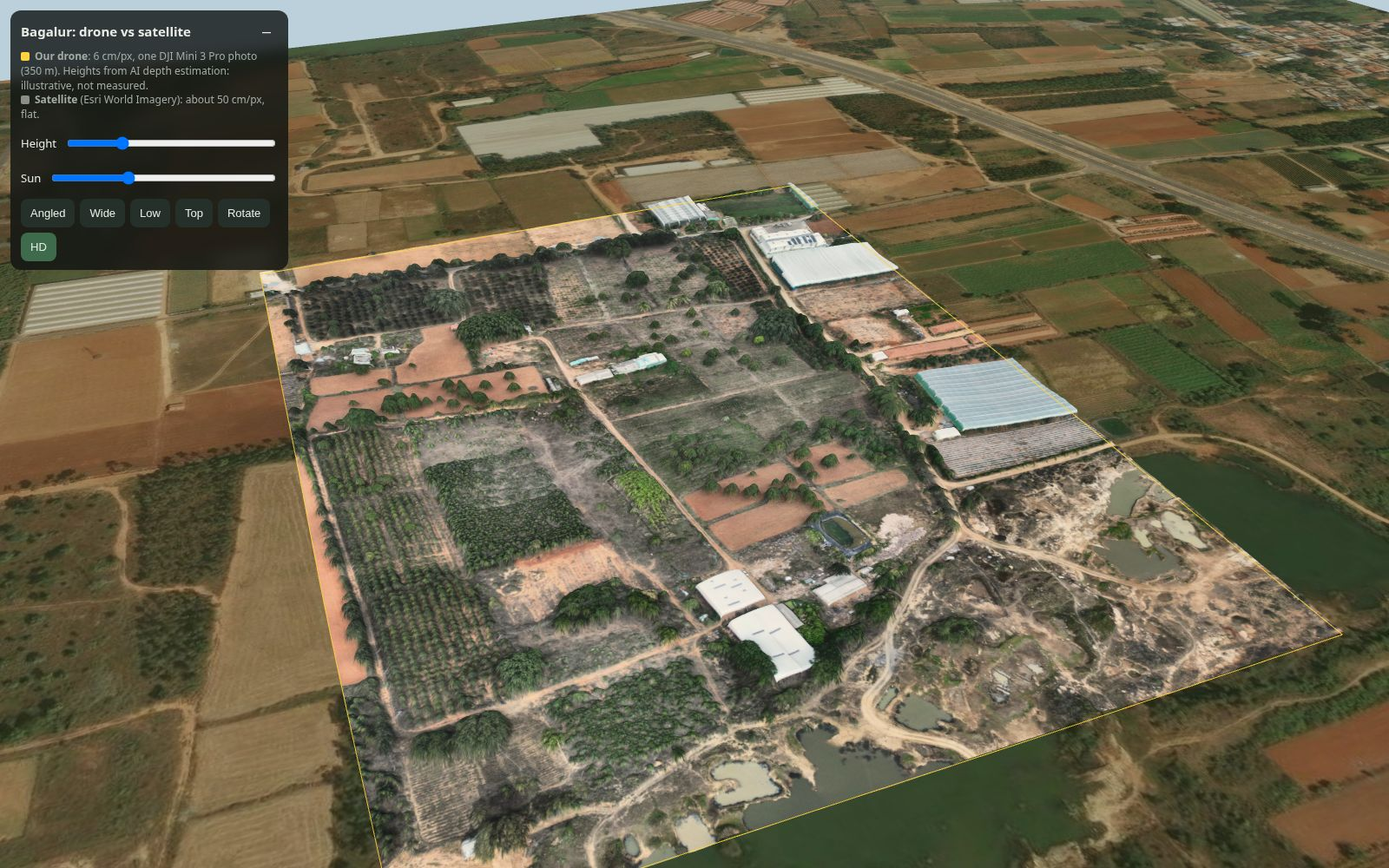
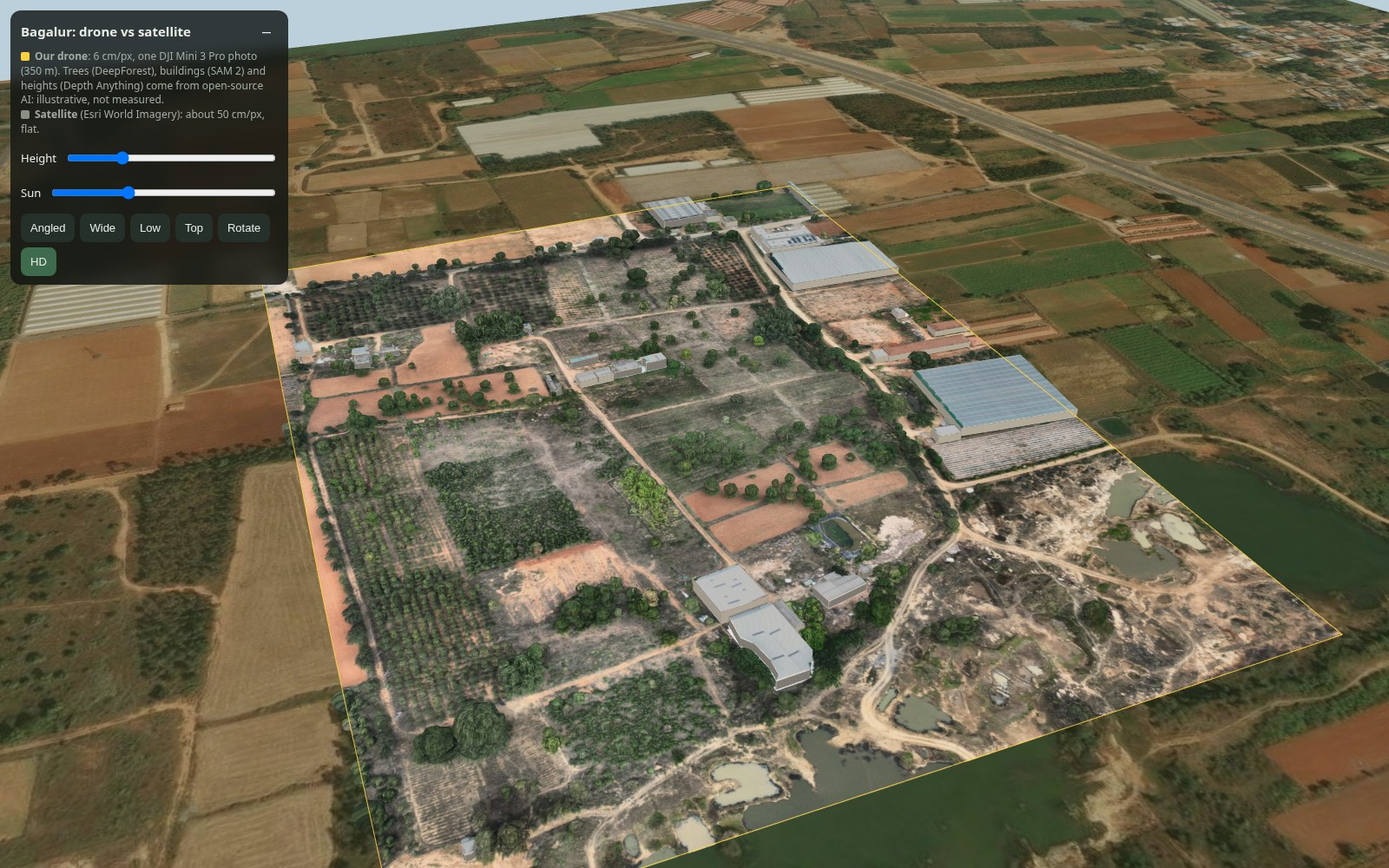
3D viewer: real 3D trees (DeepForest) and extruded buildings (SAM 2.1)
Trees are detected per crown and built as rounded crowns on trunks, textured
from the photo. Buildings are SAM 2.1 roof outlines extruded with plain walls.
The height map now carries only gentle ground relief.

Changed region(s): [[0.0, 0.062, 0.9688, 1.0]]

diff --git a/test-data/bagalur/ai3d/web/index.html b/test-data/bagalur/ai3d/web/index.html
@@ -34,7 +34,7 @@
 <div id="ui">
   <header><h1>Bagalur: drone vs satellite</h1><button id="toggle" aria-label="Hide panel">–</button></header>
   <div class="body">
-    <p><span class="sw drone"></span><b>Our drone</b>: 6 cm/px, one DJI Mini 3 Pro photo (350 m). Heights from AI depth estimation: illustrative, not measured.<br><span class="sw sat"></span><b>Satellite</b> (Esri World Imagery): about 50 cm/px, flat.</p>
+    <p><span class="sw drone"></span><b>Our drone</b>: 6 cm/px, one DJI Mini 3 Pro photo (350 m). Trees (DeepForest), buildings (SAM 2) and heights (Depth Anything) come from open-source AI: illustrative, not measured.<br><span class="sw sat"></span><b>Satellite</b> (Esri World Imagery): about 50 cm/px, flat.</p>
     <label>Height <input id="ex" type="range" min="0" max="40" step="0.5" value="10"></label>
     <label>Sun <input id="sun" type="range" min="0" max="360" step="1" value="120"></label>
     <div id="views">
@@ -83,7 +83,10 @@ let mesh, geo, hts, ex = 10, sat, outline;
 const AL = await (await fetch("align.json")).json();
 const [SW, SH] = AL.sat_size, SPX = AL.sat_px_m, [DW, DH] = AL.drone_size, A = AL.A;
 // drone pixel (u,v) -> world metres (x east, z south), origin = centre of the satellite block
-const SEAM = await (await fetch("seam.json")).json();   // correction grid (satellite px) so roads meet the satellite cleanly
+const SEAM = await (await fetch("seam.json")).json();
+const DPX = Math.hypot(A[0][0], A[1][0]) * SPX;   // metres per drone px
+const TREES = (await (await fetch("trees.json")).json()).trees;       // [cx, cy, rx, ry] in drone px + relative height (DeepForest + canopy peaks)
+const BLD = (await (await fetch("buildings.json")).json()).buildings;   // roof outlines in drone px (SAM 2.1), h = relative height   // correction grid (satellite px) so roads meet the satellite cleanly
 function seamAt(u, v) {   // bilinear sample of the grid at drone pixel (u, v)
   const fx = Math.min(Math.max(u / DW, 0), 1) * (SEAM.gx - 1), fy = Math.min(Math.max(v / DH, 0), 1) * (SEAM.gy - 1);
   const x0 = Math.min(Math.floor(fx), SEAM.gx - 2), y0 = Math.min(Math.floor(fy), SEAM.gy - 2), tx = fx - x0, ty = fy - y0, d = SEAM.d;
@@ -115,7 +118,7 @@ async function build() {
   const cx = c.getContext("2d", { willReadFrequently: true }); cx.drawImage(hImg, 0, 0);
   const px = cx.getImageData(0, 0, c.width, c.height).data;
   const n = c.width * c.height; hts = new Float32Array(n);
-  for (let i = 0; i < n; i++) hts[i] = (px[i * 4] * 256 + px[i * 4 + 1]) / 65535;
+  for (let i = 0; i < n; i++) hts[i] = (px[i * 4] * 256 + px[i * 4 + 1]) / 65535 * 1.3;   // relief2.py packs h / 1.3
   if (mesh) { scene.remove(mesh); mesh.geometry.dispose(); mesh.material.map.dispose(); mesh.material.dispose(); }
   geo = new THREE.PlaneGeometry(1, 1, c.width - 1, c.height - 1);
   const gp = geo.attributes.position, gx = c.width - 1, gy = c.height - 1;
@@ -125,6 +128,7 @@ async function build() {
   mesh = new THREE.Mesh(geo, new THREE.MeshStandardMaterial({ map: tex, roughness: 0.95, metalness: 0 }));
   mesh.castShadow = mesh.receiveShadow = true;
   scene.add(mesh);
+  hw = c.width; hh = c.height; addBuildings(tex); addTrees(tex);
   applyHeights();
   if (!outline) addOutline();
   const sm = hd ? 4096 : 2048;
@@ -136,7 +140,86 @@ function addOutline() {   // 1 px yellow line around the mapped area, sharp at a
   outline = new THREE.LineLoop(g, new THREE.LineBasicMaterial({ color: 0xffd23f, fog: false, depthTest: false, transparent: true, opacity: 0.9 }));
   outline.renderOrder = 10; scene.add(outline);
 }
+// Buildings: the terrain is flat under them; each one is an extruded box with the photo on the roof and plain walls
+let hw = 0, hh = 0, bld = null;
+function addBuildings(tex) {
+  if (bld) { scene.remove(bld); bld.traverse(o => { o.geometry?.dispose(); o.material?.dispose(); }); }
+  bld = new THREE.Group();
+  const roofM = new THREE.MeshStandardMaterial({ map: tex, roughness: 0.8, side: THREE.DoubleSide }), wallM = new THREE.MeshStandardMaterial({ color: 0xd8d4cb, roughness: 0.95, side: THREE.DoubleSide });   // double-sided: outline direction varies
+  for (const b of BLD) {
+    const P = b.poly, n = P.length, w = P.map(([u, v]) => toWorld(u, v));
+    const tris = THREE.ShapeUtils.triangulateShape(P.map(([u, v]) => new THREE.Vector2(u, v)), []);
+    const roof = new THREE.BufferGeometry();
+    roof.setAttribute("position", new THREE.BufferAttribute(new Float32Array(n * 3), 3));
+    roof.setAttribute("uv", new THREE.BufferAttribute(new Float32Array(P.flatMap(([u, v]) => [u / DW, 1 - v / DH])), 2));
+    roof.setIndex(tris.flat());
+    const wall = new THREE.BufferGeometry();
+    wall.setAttribute("position", new THREE.BufferAttribute(new Float32Array(n * 12), 3));
+    const idx = []; for (let i = 0; i < n; i++) { const o = i * 4; idx.push(o, o + 1, o + 2, o + 2, o + 1, o + 3); }
+    wall.setIndex(idx);
+    const cu = P.reduce((a, q) => a + q[0], 0) / n, cv = P.reduce((a, q) => a + q[1], 0) / n;
+    const rm = new THREE.Mesh(roof, roofM), wm = new THREE.Mesh(wall, wallM);
+    rm.castShadow = wm.castShadow = rm.receiveShadow = wm.receiveShadow = true;
+    rm.userData = wm.userData = { w, h: b.h, gi: Math.min(hh - 1, Math.round(cv / DH * (hh - 1))) * hw + Math.min(hw - 1, Math.round(cu / DW * (hw - 1))) };
+    bld.add(rm, wm);
+  }
+  scene.add(bld);
+}
+function raiseBuildings() {
+  if (!bld) return;
+  for (let k = 0; k < bld.children.length; k += 2) {
+    const rm = bld.children[k], wm = bld.children[k + 1], { w, h, gi } = rm.userData;
+    const y0 = hts[gi] * ex, y1 = y0 + Math.max((0.25 + 0.6 * h) * ex, 0.05), rp = rm.geometry.attributes.position, wp = wm.geometry.attributes.position;
+    w.forEach(([x, z], i) => {
+      const [x2, z2] = w[(i + 1) % w.length];
+      rp.setXYZ(i, x, y1, z);
+      wp.setXYZ(i * 4, x, y1, z); wp.setXYZ(i * 4 + 1, x2, y1, z2); wp.setXYZ(i * 4 + 2, x, y0 - 1, z); wp.setXYZ(i * 4 + 3, x2, y0 - 1, z2);
+    });
+    rp.needsUpdate = wp.needsUpdate = true; rm.geometry.computeVertexNormals(); wm.geometry.computeVertexNormals();
+    rm.geometry.computeBoundingSphere(); wm.geometry.computeBoundingSphere();
+  }
+}
+// Trees: one lumpy ellipsoid crown per detected tree, textured by the photo projected straight down, on a short trunk
+let treeMesh = null, trunkMesh = null, tInfo = null;
+const gAt = (u, v) => hts[Math.min(hh - 1, Math.max(0, Math.round(v / DH * (hh - 1)))) * hw + Math.min(hw - 1, Math.max(0, Math.round(u / DW * (hw - 1))))];
+function addTrees(tex) {
+  for (const m of [treeMesh, trunkMesh]) if (m) { scene.remove(m); m.geometry.dispose(); m.material.dispose(); }
+  const ico = new THREE.IcosahedronGeometry(1, hd ? 2 : 1), ip = ico.attributes.position, nv = ip.count, T = TREES.length;   // non-indexed: faceted, reads as foliage
+  const pos = new Float32Array(T * nv * 3), uv = new Float32Array(T * nv * 2), yu = new Float32Array(T * nv);
+  const rnd = (a, b, c) => { const x = Math.sin(a * 127.1 + b * 311.7 + c * 74.7) * 43758.5453; return x - Math.floor(x); };
+  TREES.forEach(([cx, cy, rx, ry, ht], t) => {
+    for (let i = 0; i < nv; i++) {
+      const k = 0.86 + 0.28 * rnd(Math.round(ip.getX(i) * 50) + t, Math.round(ip.getY(i) * 50), Math.round(ip.getZ(i) * 50));   // same bump for the shared corners of neighbouring faces
+      const sx = ip.getX(i) * k, sy = ip.getY(i) * k, sz = ip.getZ(i) * k, o = t * nv + i;
+      const [x, z] = toWorld(cx + sx * rx, cy + sz * ry);
+      pos[o * 3] = x; pos[o * 3 + 2] = z; yu[o] = sy;
+      uv[o * 2] = (cx + sx * rx * 0.8) / DW; uv[o * 2 + 1] = 1 - (cy + sz * ry * 0.8) / DH;      // sample a little inside the crown so the sides stay leaf-coloured
+    }
+  });
+  const g = new THREE.BufferGeometry();
+  g.setAttribute("position", new THREE.BufferAttribute(pos, 3)); g.setAttribute("uv", new THREE.BufferAttribute(uv, 2));
+  treeMesh = new THREE.Mesh(g, new THREE.MeshStandardMaterial({ map: tex, roughness: 1, emissive: 0x0b1606 }));   // a touch of fill light: crowns were photographed from above, their sides would go too dark
+  treeMesh.castShadow = treeMesh.receiveShadow = true; treeMesh.frustumCulled = false;
+  trunkMesh = new THREE.InstancedMesh(new THREE.CylinderGeometry(0.7, 1, 1, 5).translate(0, 0.5, 0), new THREE.MeshStandardMaterial({ color: 0x5b4632, roughness: 1 }), T);
+  trunkMesh.castShadow = true; trunkMesh.frustumCulled = false;
+  tInfo = { nv, yu };
+  scene.add(treeMesh, trunkMesh);
+}
+const _m = new THREE.Matrix4();
+function raiseTrees() {
+  if (!treeMesh) return;
+  const { nv, yu } = tInfo, pos = treeMesh.geometry.attributes.position;
+  TREES.forEach(([cx, cy, rx, ry, ht], t) => {
+    const rw = (rx + ry) / 2 * DPX * Math.min(1, ex / 10);                                 // crown radius in metres
+    const y0 = gAt(cx, cy) * ex, H = Math.max(ht * ex, 1.5 * rw), half = Math.min(0.38 * H, Math.max(0.35 * H, 0.75 * rw)), low = H - 2 * half;   // crowns stay round, never pancakes
+    for (let i = 0; i < nv; i++) pos.setY(t * nv + i, y0 + low + half * (1 + yu[t * nv + i]));
+    const [x, z] = toWorld(cx, cy), r = Math.max(0.12, Math.min(0.45, (rx + ry) * 0.0012 * ex / 10));
+    trunkMesh.setMatrixAt(t, _m.makeScale(r, Math.max(low + half * 0.6, 0.01), r).setPosition(x, y0 - 0.3, z));
+  });
+  pos.needsUpdate = true; treeMesh.geometry.computeVertexNormals(); trunkMesh.instanceMatrix.needsUpdate = true;
+}
 function applyHeights() {
+  raiseBuildings(); raiseTrees();
   const pos = geo.attributes.position;
   for (let i = 0; i < pos.count; i++) pos.setY(i, hts[i] * ex);
   pos.needsUpdate = true; geo.computeVertexNormals();

diff --git a/test-data/bagalur/ai3d/relief2.py b/test-data/bagalur/ai3d/relief2.py
@@ -1,0 +1,64 @@
+"""Relief v2: ground relief only. Trees go to web/trees.json and buildings are cut out; the viewer builds both as real 3D objects.
+Inputs: AI depth (depth.py), tree crowns (trees.py, DeepForest), footprints (buildings.py, SAM 2.1)."""
+import json, numpy as np, cv2, pandas as pd
+from scipy import ndimage as ndi
+W, H = 2016, 1512; M = 0.208                                   # work grid, metres per px
+im = cv2.resize(cv2.imread("web/tex_hd.jpg"), (W, H), interpolation=cv2.INTER_AREA)
+d = cv2.resize(np.load("work/d0995.npy").astype(np.float32), (W, H))
+ground = cv2.GaussianBlur(cv2.erode(d, cv2.getStructuringElement(cv2.MORPH_ELLIPSE, (61, 61))), (0, 0), 40)
+obj = cv2.GaussianBlur(np.clip(d - ground, 0, None), (0, 0), 1.6); obj /= np.percentile(obj, 99.7)
+b, g, r = [c.astype(np.float32) for c in cv2.split(im)]
+exg = cv2.GaussianBlur((2 * g - r - b) / (r + g + b + 1), (0, 0), 1.5)
+veg = cv2.morphologyEx((exg > 0.035).astype(np.uint8), cv2.MORPH_OPEN, np.ones((3, 3), np.uint8))
+B = np.zeros((H, W), np.uint8)
+for bd in json.load(open("web/buildings.json"))["buildings"]:
+    cv2.fillPoly(B, [np.int32(np.array(bd["poly"]) / 2)], 1)
+Bd = cv2.dilate(B, np.ones((9, 9), np.uint8))
+
+# 1) crowns DeepForest found
+crowns = []                                                     # cx, cy, rx, ry (px)
+covered = np.zeros((H, W), np.uint8)
+for t in pd.read_csv("work/trees.csv").itertuples():
+    cx, cy, rx, ry = (t.xmin + t.xmax) / 4, (t.ymin + t.ymax) / 4, (t.xmax - t.xmin) / 4, (t.ymax - t.ymin) / 4
+    if t.score < 0.2 or not 0.6 < rx / ry < 1.7 or not 0.8 < min(rx, ry) * M < 14: continue
+    m = np.zeros((H, W), np.uint8); cv2.ellipse(m, (int(cx), int(cy)), (int(rx), int(ry)), 0, 0, 360, 1, -1)
+    if veg[m > 0].mean() < 0.55 or Bd[m > 0].mean() > 0.2: continue
+    crowns.append((cx, cy, rx, ry)); covered |= m
+n_df = len(crowns)
+# 2) the rest of the tall vegetation (plantation blocks, clumps): one crown per bright canopy peak
+tall = (veg > 0) & (obj > 0.10) & (Bd == 0)
+tall = cv2.morphologyEx(tall.astype(np.uint8), cv2.MORPH_OPEN, np.ones((5, 5), np.uint8))
+lum = cv2.GaussianBlur(cv2.cvtColor(im, cv2.COLOR_BGR2LAB)[..., 0].astype(np.float32), (0, 0), 3.5) + 40 * cv2.GaussianBlur(obj, (0, 0), 3)
+pk = (lum == ndi.maximum_filter(lum, size=19)) & (tall > 0) & (covered == 0)
+ys, xs = np.where(pk); dt = cv2.distanceTransform(tall, cv2.DIST_L2, 5)
+from scipy.spatial import cKDTree
+P = np.c_[xs, ys].astype(np.float32); nn = cKDTree(P).query(P, k=2)[0][:, 1]
+for (x, y), dn in zip(P, nn):
+    rad = float(np.clip(min(0.62 * dn, dt[int(y), int(x)] + 5), 6, 24))
+    crowns.append((x, y, rad, rad))
+print(n_df, "DeepForest crowns +", len(crowns) - n_df, "canopy-peak crowns")
+
+# 3) a height per crown: AI depth inside it, blended with crown width (wider tree = taller). The viewer builds the 3D crowns.
+out = []; tmask = np.zeros((H, W), np.uint8)
+for cx, cy, rx, ry in crowns:
+    x0, x1, y0, y1 = int(max(cx - rx - 1, 0)), int(min(cx + rx + 2, W)), int(max(cy - ry - 1, 0)), int(min(cy + ry + 2, H))
+    if x1 - x0 < 3 or y1 - y0 < 3: continue
+    yy, xx = np.mgrid[y0:y1, x0:x1]; q = ((xx - cx) / rx) ** 2 + ((yy - cy) / ry) ** 2
+    hd = np.percentile(obj[y0:y1, x0:x1][q < 1], 85) if (q < 1).any() else 0
+    ht = float(np.clip(0.55 * hd + 0.45 * 0.085 * (rx + ry) * M * 1.15, 0.15, 1.15))
+    out.append([round(float(v), 1) for v in (cx * 2, cy * 2, rx * 2, ry * 2)] + [round(ht, 3)])      # drone px at 4032, relative height
+    cv2.ellipse(tmask, (int(cx), int(cy)), (int(rx), int(ry)), 0, 0, 360, 1, -1)
+json.dump(dict(size=[4032, 3024], trees=out), open("web/trees.json", "w"), separators=(",", ":"))
+# 4) everything else: low crops keep a little texture, bare ground/shadows go flat, buildings cut out
+low = cv2.GaussianBlur(obj * veg, (0, 0), 2) * 0.35 + cv2.GaussianBlur(obj * (1 - veg), (0, 0), 4) * 0.12
+h = np.minimum(low, 0.25) * (1 - Bd) * (1 - 0.75 * cv2.GaussianBlur(tmask.astype(np.float32), (0, 0), 2))   # flat under the 3D trees
+h = cv2.GaussianBlur(h, (0, 0), 0.8)
+h = h + 0.08 * (ground - ground.min()) / (np.ptp(ground) + 1e-6)
+np.save("work/h2.npy", h); print("max", h.max())
+def pack(a, size, path):
+    a = cv2.resize(a, size, interpolation=cv2.INTER_AREA); v = np.clip(a / 1.3 * 65535, 0, 65535).astype(np.uint16)
+    rg = np.zeros((*v.shape, 3), np.uint8); rg[..., 2] = v >> 8; rg[..., 1] = v & 255      # BGR order: R = high byte, G = low byte
+    cv2.imwrite(path, rg, [cv2.IMWRITE_PNG_COMPRESSION, 9])
+pack(h, (1008, 756), "web/height_hd.png"); pack(h, (504, 378), "web/height_sd.png")
+vis = cv2.applyColorMap(np.clip(h / h.max() * 255, 0, 255).astype(np.uint8), cv2.COLORMAP_INFERNO)
+cv2.imwrite("work/h2_vis.jpg", np.hstack([cv2.resize(im, (1008, 756)), cv2.resize(vis, (1008, 756))]), [1, 85])

diff --git a/test-data/bagalur/ai3d/buildings.py b/test-data/bagalur/ai3d/buildings.py
@@ -1,0 +1,65 @@
+"""Pick buildings out of the SAM 2.1 segments: raised in the AI depth, not vegetation, compact shape. -> web/buildings.json"""
+import json, numpy as np, cv2
+W, H = 4032, 3024
+im = cv2.imread("web/tex_hd.jpg")
+d = cv2.resize(np.load("work/d0995.npy").astype(np.float32), (W, H))
+ground = cv2.GaussianBlur(cv2.erode(cv2.resize(d, (1008, 756)), cv2.getStructuringElement(cv2.MORPH_ELLIPSE, (31, 31))), (0, 0), 20)
+obj = np.clip(d - cv2.resize(ground, (W, H)), 0, None); obj /= np.percentile(obj, 99.7)
+b, g, r = [c.astype(np.float32) for c in cv2.split(im)]
+exg = (2 * g - r - b) / (r + g + b + 1)
+hsv = cv2.cvtColor(im, cv2.COLOR_BGR2HSV)
+cands = []
+for k in list(np.load("work/sam_masks.npy", allow_pickle=True)) + list(np.load("work/sam_pts.npy", allow_pickle=True)):
+    h, w = k["shape"]; m = np.unpackbits(k["m"])[:h * w].reshape(h, w).astype(np.uint8)
+    a = int(m.sum())
+    if a < 1000 or a > 1.6e6: continue
+    cs, _ = cv2.findContours(m, cv2.RETR_EXTERNAL, cv2.CHAIN_APPROX_SIMPLE); c = max(cs, key=cv2.contourArea)
+    rect = cv2.minAreaRect(c); ra = rect[1][0] * rect[1][1] + 1
+    hull = cv2.contourArea(cv2.convexHull(c)) + 1
+    sl = (slice(k["y"], k["y"] + h), slice(k["x"], k["x"] + w)); mb = m.astype(bool)
+    pad = 40; y0, x0 = max(k["y"] - pad, 0), max(k["x"] - pad, 0)
+    big = np.zeros((min(k["y"] + h + pad, H) - y0, min(k["x"] + w + pad, W) - x0), np.uint8); big[k["y"] - y0:k["y"] - y0 + h, k["x"] - x0:k["x"] - x0 + w] = m
+    ring = (cv2.dilate(big, np.ones((2 * pad + 1,) * 2, np.uint8)) > 0) & (big == 0)
+    o = obj[y0:y0 + big.shape[0], x0:x0 + big.shape[1]]
+    cands.append(dict(x=int(k["x"]), y=int(k["y"]), a=a, rectness=a / ra, solid=a / hull, exg=float(exg[sl][mb].mean()), sat=float(hsv[..., 1][sl][mb].mean()), val=float(hsv[..., 2][sl][mb].mean()),
+                      hin=float(np.median(obj[sl][mb])), hout=float(np.percentile(o[ring], 25)), cut=k["cut"], prompt=k.get("prompt", False), score=k["score"], c=(c + [k["x"], k["y"]]).reshape(-1, 2), asp=max(rect[1]) / (min(rect[1]) + 1)))
+print(len(cands), "segments")
+def ok(c):
+    if c["prompt"]: return c["a"] < 4e5
+    dh = c["hin"] - c["hout"]
+    if c["solid"] < 0.86 or c["asp"] > 9 or c["exg"] > 0.06 or c["val"] < 115: return False      # dark blobs are orchard trees
+    if c["rectness"] > 0.62 and dh > 0.10: return True
+    return c["rectness"] > 0.78 and dh > 0.05 and c["val"] > 165 and c["sat"] < 50                # bright grey/white roofs the depth model underrates
+keep = [c for c in cands if ok(c)]
+print(len(keep), "building-like segments")
+# whole segments first, small to large: skip duplicates and "containers" (roof + yard in one segment);
+# then the pieces cut by tile edges, joined, where nothing whole already covers them
+U = np.zeros((H, W), np.uint8); lab = np.zeros((H, W), np.int32); n = 1
+for c in sorted([c for c in keep if not c["cut"]], key=lambda c: (not c["prompt"], c["a"])):   # prompted roofs first
+    m = np.zeros((H, W), np.uint8); cv2.drawContours(m, [c["c"]], -1, 1, -1)
+    if (U[m > 0] > 0).mean() > 0.35: continue
+    lab[(m > 0) & (U == 0)] = n; n += 1; U |= m
+C = np.zeros((H, W), np.uint8)
+for c in keep:
+    if c["cut"]: cv2.drawContours(C, [c["c"]], -1, 1, -1)
+C = cv2.morphologyEx(C, cv2.MORPH_CLOSE, np.ones((9, 9), np.uint8)) & (1 - cv2.dilate(U, np.ones((15, 15), np.uint8)))
+nc, labc = cv2.connectedComponents(C)
+for i in range(1, nc): lab[labc == i] = n; n += 1
+U |= C
+st = np.array([[0, 0, 0, 0, (lab == i).sum()] for i in range(n)])
+out = []; vis = im.copy()
+for i in range(1, n):
+    if st[i, cv2.CC_STAT_AREA] < 1200: continue
+    m = cv2.morphologyEx((lab == i).astype(np.uint8), cv2.MORPH_OPEN, np.ones((7, 7), np.uint8))
+    if m.sum() < 1200: continue
+    c = max(cv2.findContours(m, cv2.RETR_EXTERNAL, cv2.CHAIN_APPROX_SIMPLE)[0], key=cv2.contourArea)
+    rect = cv2.minAreaRect(c); a = cv2.contourArea(c)
+    poly = cv2.boxPoints(rect) if a / (rect[1][0] * rect[1][1]) > 0.88 else cv2.approxPolyDP(c, 0.012 * cv2.arcLength(c, True), True).reshape(-1, 2)
+    ring = (cv2.dilate(m, np.ones((81, 81), np.uint8)) > 0) & (U == 0)
+    dh = float(np.median(obj[m > 0]) - np.percentile(obj[ring], 25))
+    out.append(dict(poly=[[round(float(x), 1), round(float(y), 1)] for x, y in poly], h=round(max(dh, 0.12), 3), area_m2=round(a * 0.0108, 0)))
+    cv2.polylines(vis, [np.int32(poly)], True, (255, 0, 255), 5)
+    cv2.putText(vis, f"{len(out)-1} h{dh:.2f}", tuple(np.int32(poly).min(0)), 0, 1.4, (0, 255, 255), 3)
+print(len(out), "buildings")
+cv2.imwrite("work/bld_vis.jpg", cv2.resize(vis, (2016, 1512)), [1, 85])
+json.dump(dict(size=[W, H], buildings=out), open("web/buildings.json", "w"))

diff --git a/test-data/bagalur/ai3d/sam_points.py b/test-data/bagalur/ai3d/sam_points.py
@@ -1,0 +1,23 @@
+"""Second pass: SAM 2.1 prompted with one click per roof the automatic pass missed -> work/sam_pts.npy"""
+import numpy as np, torch
+from PIL import Image
+from transformers import Sam2Model, Sam2Processor
+DEV = "cpu"   # 12 clicks only; keeps clear of whatever else is on the GPU
+PTS = [(2370, 1480), (2370, 1580), (2950, 365), (2040, 2940), (2160, 2900), (2950, 2700), (3230, 2700), (3420, 2560), (3800, 3000), (3870, 2200), (2330, 1100), (2900, 1140)]
+BOXES = [(2335, 1365, 2440, 1505), (3180, 2500, 3300, 2790), (3750, 2130, 4031, 2370)]   # roofs a click alone splits up
+proc = Sam2Processor.from_pretrained("facebook/sam2.1-hiera-large"); model = Sam2Model.from_pretrained("facebook/sam2.1-hiera-large").to(DEV).eval()
+im = Image.open("web/tex_hd.jpg").convert("RGB"); W, H = im.size; out = []
+for p in PTS + BOXES:
+    px, py = (p if len(p) == 2 else ((p[0] + p[2]) // 2, (p[1] + p[3]) // 2))
+    x0, y0 = int(np.clip(px - 800, 0, W - 1600)), int(np.clip(py - 800, 0, H - 1600))
+    crop = im.crop((x0, y0, x0 + 1600, y0 + 1600))
+    kw = dict(input_points=[[[[px - x0, py - y0]]]], input_labels=[[[1]]]) if len(p) == 2 else dict(input_boxes=[[[p[0] - x0, p[1] - y0, p[2] - x0, p[3] - y0]]])
+    inp = proc(images=crop, return_tensors="pt", **kw).to(DEV)
+    with torch.no_grad(): o = model(**inp)
+    ms = proc.post_process_masks(o.pred_masks.cpu(), inp["original_sizes"])[0][0].numpy() > 0
+    sc = o.iou_scores[0, 0].cpu().numpy()
+    a = ms.reshape(3, -1).sum(1); i = int(np.argmax(sc * (a < 6e5)))      # best mask that is not the whole scene
+    m = ms[i]; ys, xs = np.where(m)
+    print((px, py), "area", int(a[i]), "score", round(float(sc[i]), 2), [int(v) for v in a])
+    out.append(dict(x=x0 + xs.min(), y=y0 + ys.min(), m=np.packbits(m[ys.min():ys.max() + 1, xs.min():xs.max() + 1]), shape=(ys.max() - ys.min() + 1, xs.max() - xs.min() + 1), score=float(sc[i]), cut=False, prompt=True))
+np.save("work/sam_pts.npy", np.array(out, dtype=object), allow_pickle=True)

diff --git a/test-data/bagalur/ai3d/sam_masks.py b/test-data/bagalur/ai3d/sam_masks.py
@@ -1,0 +1,22 @@
+"""All segments with SAM 2.1 (open source, Meta) -> work/sam_masks.npz. Buildings are picked from these in buildings.py."""
+import numpy as np, torch, cv2
+from PIL import Image
+from transformers import pipeline
+gen = pipeline("mask-generation", model="facebook/sam2.1-hiera-large", device=0)
+im = Image.open("web/tex_hd.jpg").convert("RGB")
+W, H = im.size
+out = []
+T, S = 1600, 1216                                   # overlapping tiles so small sheds keep enough pixels
+for y0 in range(0, H - 200, S):
+    for x0 in range(0, W - 200, S):
+        x1, y1 = min(x0 + T, W), min(y0 + T, H)
+        r = gen(im.crop((x0, y0, x1, y1)), points_per_batch=12, points_per_crop=32, pred_iou_thresh=0.8, stability_score_thresh=0.9)
+        for m, s in zip(r["masks"], r["scores"]):
+            m = np.asarray(m, bool)
+            if m.sum() < 400: continue
+            ys, xs = np.where(m)
+            bx = (xs.min(), ys.min(), xs.max() + 1, ys.max() + 1)
+            touches = bx[0] == 0 and x0 > 0 or bx[1] == 0 and y0 > 0 or bx[2] == x1 - x0 and x1 < W or bx[3] == y1 - y0 and y1 < H
+            out.append(dict(x=x0 + bx[0], y=y0 + bx[1], m=np.packbits(m[bx[1]:bx[3], bx[0]:bx[2]]), shape=(bx[3] - bx[1], bx[2] - bx[0]), score=float(s), cut=bool(touches)))
+        print(x0, y0, len(out), flush=True)
+np.save("work/sam_masks.npy", np.array(out, dtype=object), allow_pickle=True)

diff --git a/test-data/bagalur/ai3d/trees.py b/test-data/bagalur/ai3d/trees.py
@@ -1,0 +1,15 @@
+"""Tree crowns with DeepForest (open source, weecology). Photo at 4032 px is ~10 cm/px = the model's training scale."""
+import json, numpy as np, cv2, torch
+from deepforest import main
+m = main.deepforest(); m.load_model("weecology/deepforest-tree")
+m.config.score_thresh = 0.15
+if torch.cuda.is_available(): m.model.to("cuda")
+im = cv2.cvtColor(cv2.imread("web/tex_hd.jpg"), cv2.COLOR_BGR2RGB)
+df = m.predict_tile(image=im, patch_size=500, patch_overlap=0.25, iou_threshold=0.3)
+df = df[["xmin", "ymin", "xmax", "ymax", "score"]].round(2)
+df.to_csv("work/trees.csv", index=False)
+print(len(df), "crowns; score quantiles", df.score.quantile([.1, .5, .9]).tolist())
+vis = cv2.cvtColor(im, cv2.COLOR_RGB2BGR)
+for r in df.itertuples():
+    cv2.ellipse(vis, (int((r.xmin + r.xmax) / 2), int((r.ymin + r.ymax) / 2)), (int((r.xmax - r.xmin) / 2), int((r.ymax - r.ymin) / 2)), 0, 0, 360, (0, 255, 255) if r.score > .3 else (0, 120, 255), 2)
+cv2.imwrite("work/trees_vis.jpg", cv2.resize(vis, (2016, 1512)), [1, 85])

diff --git a/README.md b/README.md
@@ -93,6 +93,16 @@ The photo sits at its true position inside a 2 × 1.5 km block of Esri satellite
 
 <img src="docs/img/ai3d_drone_vs_satellite_wide.jpg" width="820">
 
+**Trees and buildings are real 3D objects, found by open-source models** (all run locally, no paid API):
+
+- **Trees:** DeepForest (tree-crown detector trained on 10 cm aerial imagery, the same scale as this photo) finds the separate trees; dense blocks and clumps get one crown per bright canopy peak. 854 trees in total (`trees.py`, `relief2.py`). The viewer builds each as a rounded crown on a trunk, coloured by the photo projected straight down.
+- **Buildings:** SAM 2.1 segments the photo; segments that are raised in the AI depth, not vegetation and compact are kept as roofs, plus a few clicked by hand where it missed (`sam_masks.py`, `sam_points.py`, `buildings.py`). 39 footprints, extruded with the photo on the roof and plain vertical walls.
+- The ground keeps only a gentle relief from Depth Anything V2.
+
+<img src="docs/img/ai3d_trees_buildings.jpg" width="820">
+
+<img src="docs/img/ai3d_detections.jpg" width="820">
+
 - **Phones:** the viewer loads a light version by default (2048 px photo, 504×378 grid, about 2.5 MB). It frames portrait screens to fit, redraws only when something moves, and has an **HD** button for the full 4032 px version.
 - **Heights are illustrative, not measured.** Use WebODM or a survey for anything that needs real heights.
 
@@ -100,7 +110,7 @@ The photo sits at its true position inside a 2 × 1.5 km block of Esri satellite
 |:-:|:-:|:-:|
 | <img src="docs/img/ai3d_depth_viewer.jpg" width="330"> | <img src="docs/img/ai3d_AI_render_nano_banana_pro.jpg" width="330"> | <img src="docs/img/ai3d_phone.jpg" width="130"> |
 
-The middle image is **AI-generated**. It was made from the depth-viewer render (angle and layout) plus the real photo (detail), 2 credits. The layout matches the farm, but the trees, walls and background are invented, so it is for pitch visuals only and never for EUDR. The code is in `test-data/bagalur/ai3d/` (`depth.py`, `relief.py`, `prompt.txt`, `web/`).
+The middle image is **AI-generated**. It was made from the depth-viewer render (angle and layout) plus the real photo (detail), 2 credits. The layout matches the farm, but the trees, walls and background are invented, so it is for pitch visuals only and never for EUDR. The code is in `test-data/bagalur/ai3d/` (`depth.py`, `relief2.py`, `trees.py`, `buildings.py`, `prompt.txt`, `web/`).
 
 ---
 
